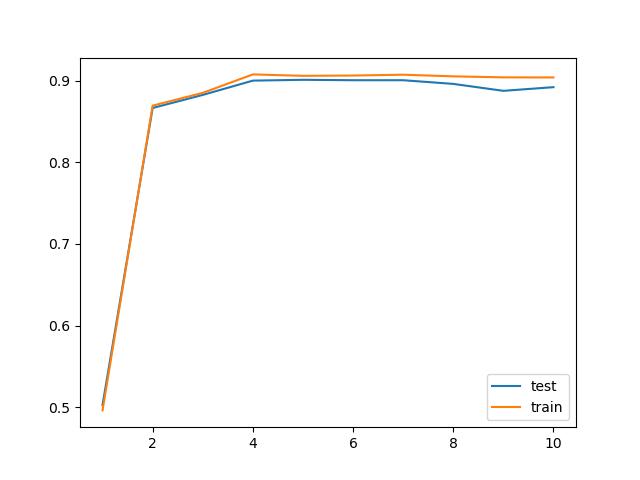
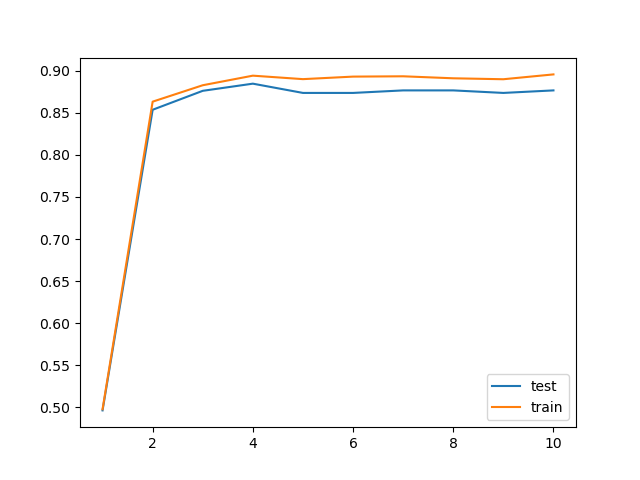
KZ-61: added train_test_split

diff --git a/pytorch/point_location/main.py b/pytorch/point_location/main.py
@@ -1,5 +1,6 @@
 import torch
 import matplotlib.pyplot as plt
+from sklearn.model_selection import train_test_split
 
 RADIUS = 0.8
 
@@ -26,8 +27,9 @@ def run_incircle_model():
     # generate train/test data
     points = torch.stack([random_point() for _ in range(10000)])
     predictions = (points.norm(dim=1) < RADIUS).float().view(-1, 1)
-    x_train, y_train = points[:8000], predictions[:8000]
-    x_test, y_test = points[8000:], predictions[8000:]
+    x_train, x_test, y_train, y_test = train_test_split(
+        points, predictions, test_size=0.2, random_state=23
+    )
 
     # initialize model & optimizer
     model = InCircleModel()

diff --git a/pytorch/README.md b/pytorch/README.md
@@ -11,6 +11,7 @@ conda create env
 conda activate ./env
 conda install pytorch torchvision torchaudio pytorch-cuda -c pytorch -c nvidia
 conda install jupyterlab matplotlib
+conda install scikit-learn
 ```
 
 ## Running notebooks
